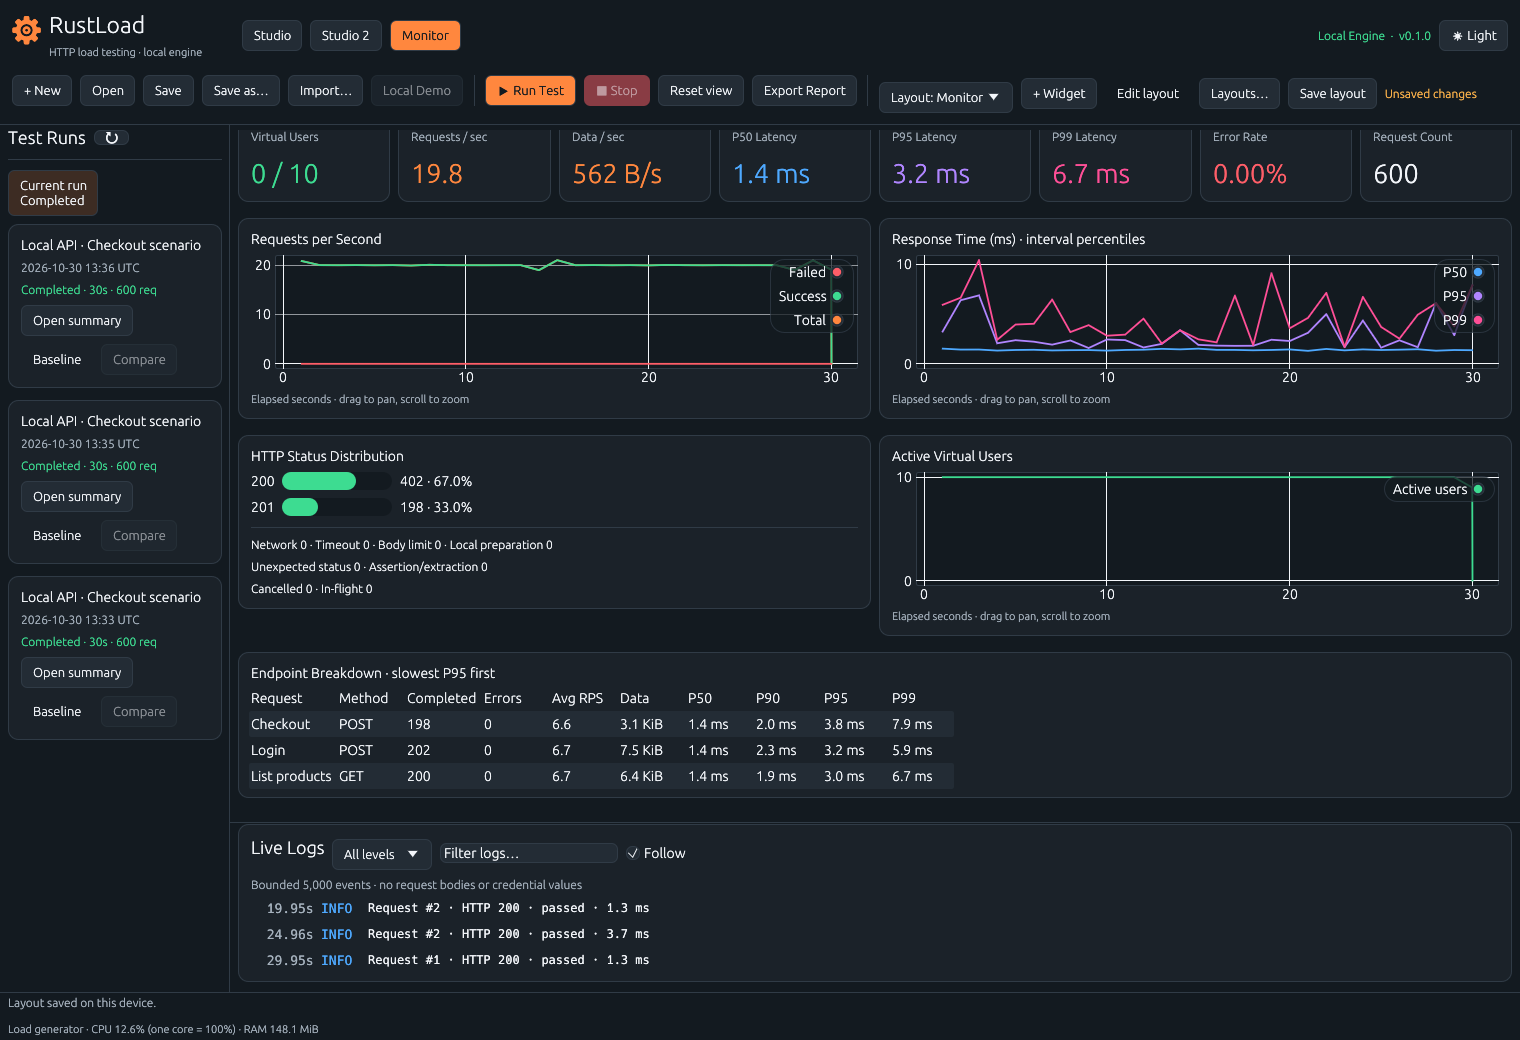
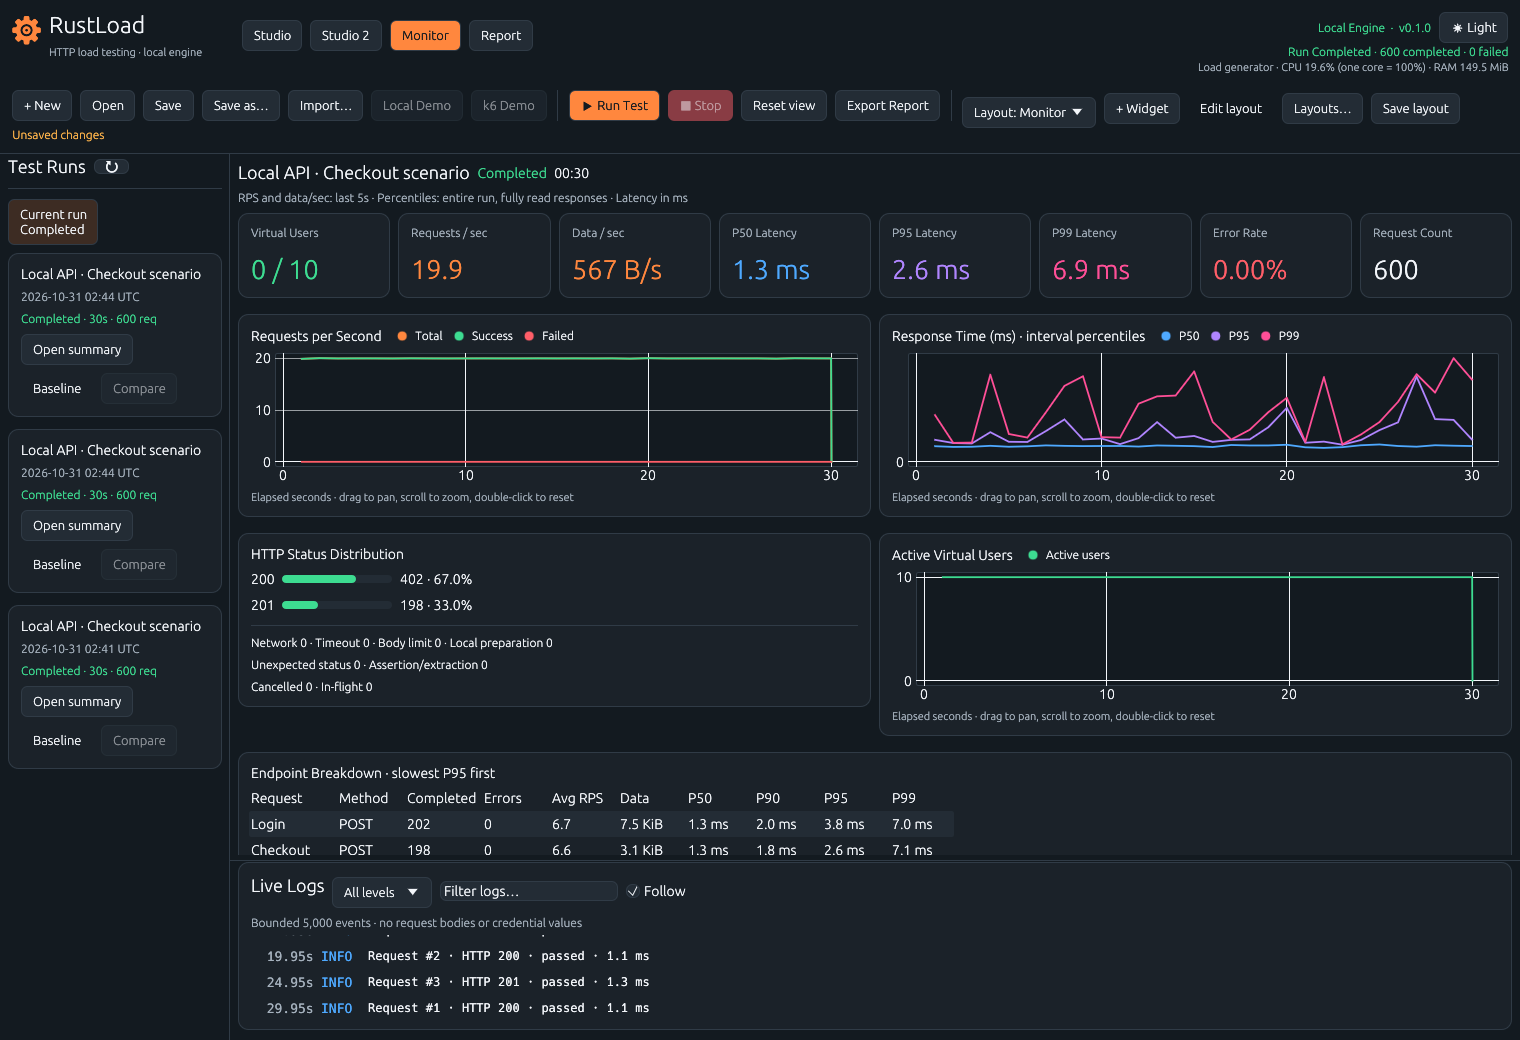
Refresh documentation screenshots and add Report images
Recapture all 17 README and user-guide screenshots from the current build
(header status line, k6 Demo button, chart series chips, Report tab) with
the same file names, pixel sizes and subjects. Add report-dark/light and
guide/07-report from a Local Demo run with a 5 s warmup and four passing
SLOs, reference them in the README and user-guide Report sections, and
record the capture method in docs/validation.md.

Claude-Session: https://claude.ai/code/session_01VjX78gnzj2JLfifUnpDpDh

diff --git a/docs/validation.md b/docs/validation.md
@@ -1,5 +1,31 @@
 # Validation evidence
 
+## Screenshot refresh after the header, chart and Report changes
+
+Every documentation screenshot was recaptured from the current build so it shows
+the status line in the header, the **k6 Demo** button, series chips next to
+chart titles and the **Report** tab. Each image keeps its file name, pixel size
+and subject; the captions still match and were not changed.
+
+- Recaptured: `docs/screenshots/` studio-dark/light, studio2-dark/light
+  (1520×1040), studio2-compact (900×720), monitor-dark/light,
+  widgets-dashboard/edit/focus/layouts (1520×1040); `docs/screenshots/guide/`
+  01–03 (1440×900), 04-arrival-rate-stages (285×712 crop),
+  05-import-openapi (696×702 crop), 06-layout-manager (666×598 crop).
+- New: `report-dark.png` and `report-light.png` (1520×1040) in the README
+  Report sections (Light as a link, like the other workspaces) and
+  `guide/07-report.png` (1440×900) in the user guides' Report sections.
+- Data: native Linux/Xvfb debug build, a fresh isolated home per scenario and
+  only **Local Demo** traffic to its 127.0.0.1 server. The guide 02/03/07 and
+  Report shots come from one 30 s run with a 5 s warmup and four SLOs (P95 ≤ 50
+  ms, error rate ≤ 1 %, throughput ≥ 10 req/s, P99 ≤ 100 ms), all passing. The
+  k6 Demo button is only visible; its plan was never run. The OpenAPI import
+  used a local file whose server is `http://127.0.0.1:8080`. No secrets appear.
+- Checks: old and new sizes compared before overwriting (all equal); PNGs
+  re-saved losslessly; every `screenshots/…png` link in README*.md and docs/*.md
+  resolves (link checker: 0 problems); `git diff --check` clean. No code
+  changes.
+
 ## Report view
 
 A **Report** tab next to Monitor shows the run Monitor has open as a fixed,

diff --git a/README_tr.md b/README_tr.md
@@ -177,10 +177,13 @@ istek, sıralanabilir endpoint tablosu ve katlanmış log çekmecesi. Monitor
 düzenini değiştirmez. Ayrıntılar
 [kullanım rehberinde](docs/user-guide_tr.md#report).
 
+![Tamamlanmış yerel bir çalıştırmanın Report görünümü: dört SLO kutucuklu PASSED sonuç bandı, ana kartlar, warmup bandı gölgeli ortak eksenli zaman çizelgesi, hatalar, HTTP durumu ve en yavaş istek](docs/screenshots/report-dark.png)
+
 Uygulamanın tamamında koyu ve açık tema kullanılabilir. Açık temadaki
 [Studio](docs/screenshots/studio-light.png),
-[Studio 2](docs/screenshots/studio2-light.png) ve
-[Monitor](docs/screenshots/monitor-light.png) görüntülerini de inceleyebilirsiniz.
+[Studio 2](docs/screenshots/studio2-light.png),
+[Monitor](docs/screenshots/monitor-light.png) ve
+[Report](docs/screenshots/report-light.png) görüntülerini de inceleyebilirsiniz.
 
 ## Kişisel dashboardlar
 

diff --git a/README.md b/README.md
@@ -164,10 +164,13 @@ line drawn), failure reasons, HTTP status, the slowest request, a sortable
 endpoint table and a folded log drawer. It never changes Monitor's layout. See
 the [user guide](docs/user-guide.md#report).
 
+![Report for a completed local run: PASSED verdict band with four SLO chips, key cards, the shared-axis timeline with the warmup band, failures, HTTP status and the slowest request](docs/screenshots/report-dark.png)
+
 Dark and Light themes are available throughout the app. You can also view
 [Studio in Light](docs/screenshots/studio-light.png),
-[Studio 2 in Light](docs/screenshots/studio2-light.png), and
-[Monitor in Light](docs/screenshots/monitor-light.png).
+[Studio 2 in Light](docs/screenshots/studio2-light.png),
+[Monitor in Light](docs/screenshots/monitor-light.png), and
+[Report in Light](docs/screenshots/report-light.png).
 
 ## Custom dashboards
 

diff --git a/docs/user-guide_tr.md b/docs/user-guide_tr.md
@@ -517,6 +517,8 @@ yer alır. Ağaçtaki **Summary Report** mevcut çalıştırmayı Monitor'de aç
 için soldaki **Test Runs** listesinden seçin. Düzeni sabittir ve Monitor
 sayfalarını değiştirmez. Studio'dan başlatılan test yine Monitor'ü açar.
 
+![Dört SLO eşiği ve 5 sn warmup ile demo çalıştırmasından sonra Report: PASSED sonuç bandı, SLO kutucukları, ana kartlar, warmup bandı gölgeli zaman çizelgesi, hatalar, HTTP durumu ve en yavaş istek](screenshots/guide/07-report.png)
+
 - **Sonuç bandı**: SLO eşiklerine göre **PASSED** / **FAILED** /
   **INCONCLUSIVE**; eşik yoksa **COMPLETED**, **COMPLETED WITH ERRORS**,
   **CANCELLED** ya da **RUNNING**. Kullanıcı, profil, süre, istek ve hata

diff --git a/docs/user-guide.md b/docs/user-guide.md
@@ -500,6 +500,8 @@ the problem?" next, for the run Monitor has open; pick another run in **Test
 Runs** on the left. Its layout is fixed and does not change Monitor's pages.
 Starting a test from Studio still opens Monitor.
 
+![Report after the demo run with four SLO thresholds and a 5 s warmup: PASSED verdict band, SLO chips, key cards, timeline with the warmup band, failures, HTTP status and the slowest request](screenshots/guide/07-report.png)
+
 - **Verdict band**: **PASSED** / **FAILED** / **INCONCLUSIVE** from the SLO
   thresholds, or **COMPLETED**, **COMPLETED WITH ERRORS**, **CANCELLED** or
   **RUNNING** without them; the users, profile, duration, request and failure
